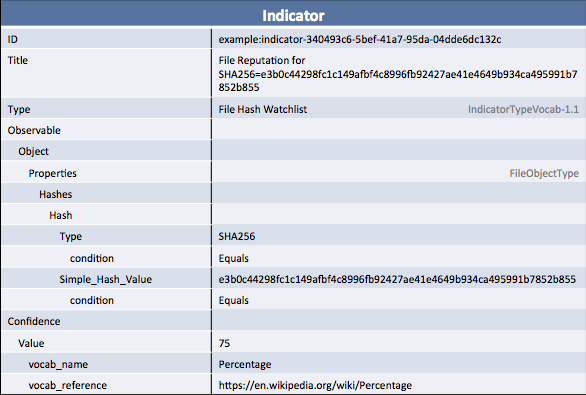
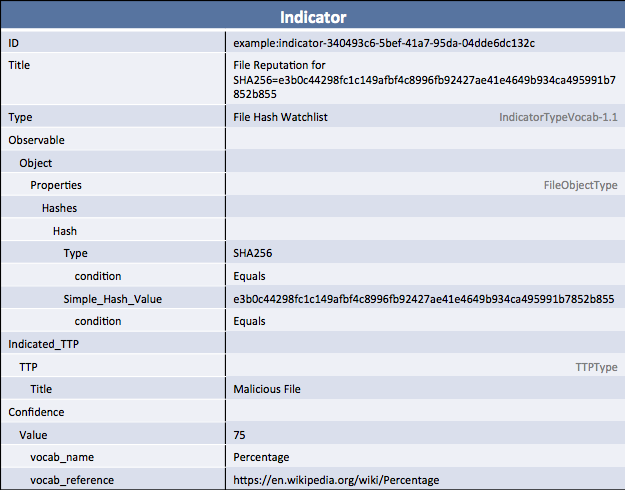
added indicated ttp

diff --git a/documentation/idioms/file-hash-reputation/file-hash-reputation_producer.py b/documentation/idioms/file-hash-reputation/file-hash-reputation_producer.py
@@ -26,6 +26,8 @@ def main():
     file_object.hashes[0].type_.condition = "Equals"
     indicator.add_observable(file_object)
 
+    indicator.add_indicated_ttp(TTP(title="Malicious file"))
+
     indicator.confidence = Confidence(value=VocabString('75'))
     indicator.confidence.value.vocab_name = "Percentage"
     indicator.confidence.value.vocab_reference = "https://en.wikipedia.org/wiki/Percentage"

diff --git a/documentation/idioms/file-hash-reputation/file-hash-reputation_consumer.py b/documentation/idioms/file-hash-reputation/file-hash-reputation_consumer.py
@@ -15,6 +15,7 @@ def main():
   for indicator in stix_package.indicators:
     print "Hash: " + indicator.observable.object_.properties.hashes[0].simple_hash_value.value
     print "Reputation: " + indicator.confidence.value.value
+    print "TTP: " + indicator.indicated_ttps[0].item.title
 
 
 if __name__ == '__main__':

diff --git a/documentation/idioms/file-hash-reputation/index.md b/documentation/idioms/file-hash-reputation/index.md
@@ -22,17 +22,23 @@ Keep in mind that many reputation services are request/response: the consumer as
 
 ## Data model
 
+<img src="diagram.png" alt="File hash reputation" class="aside-text" />
+
 The basic data model is the same as for most indicators:
 
 - A top-level indicator to bring together:
   - A CybOX object to represent the data point
-  - If possible, an indicated TTP on the indicator to describe how the object is malicious
+  - An indicated TTP on the indicator to describe how the object is malicious
   - A confidence to indicate the reputation score (the likelihood that the object is malicious)
 
-{% include start_tabs.html tabs="Diagram|XML|Python Producer|Python Consumer" name="indicator" %}
-<img src="diagram.png" alt="File hash reputation" />
-{% include tab_separator.html %}{% highlight xml %}
-<stix:Indicator id="example:indicator-340493c6-5bef-41a7-95da-04dde6dc132c" timestamp="2015-07-20T18:30:25.438755+00:00" xsi:type='indicator:IndicatorType'>
+<div style="clear: both; width:100%"></div>
+
+### Indicator Framework
+
+The `Indicator` forms the framework for the reputation result. All of the other data will be added under that.
+
+{% include start_tabs.html tabs="XML|Python Producer|Python Consumer" name="indicator" %}{% highlight xml %}
+<stix:Indicator id="example:indicator-14975dea-86cd-4211-a5f8-9c2e4daab69a" timestamp="2015-07-20T19:52:13.853585+00:00" xsi:type='indicator:IndicatorType'>
     <indicator:Title>File Reputation for SHA256=e3b0c44298fc1c149afbf4c8996fb92427ae41e4649b934ca495991b7852b855</indicator:Title>
     <indicator:Type xsi:type="stixVocabs:IndicatorTypeVocab-1.1">File Hash Watchlist</indicator:Type>
 </stix:Indicator>
@@ -52,12 +58,12 @@ In particular, because this is an indicator keep in mind that all of the fields 
 In this example, the SHA256 hash for the file is given along with the notation that the match should (of course, because it's a hash) be an equality match:
 
 {% include start_tabs.html tabs="XML|Python Producer|Python Consumer" name="observable" %}{% highlight xml %}
-<indicator:Observable id="example:Observable-4101d261-e4d5-4d56-b293-4354b9826a13">
-    <cybox:Object id="example:File-eaec587e-3b47-41fd-aad6-ed71fa85526b">
+<indicator:Observable id="example:Observable-7b97c8a2-2d0b-4af7-bcf0-cad28f2fea5a">
+    <cybox:Object id="example:File-b04bfc7c-04ae-4dfe-ba8e-a297f0717552">
         <cybox:Properties xsi:type="FileObj:FileObjectType">
             <FileObj:Hashes>
                 <cyboxCommon:Hash>
-                    <cyboxCommon:Type xsi:type="cyboxVocabs:HashNameVocab-1.0" condition="Equals">SHA256</cyboxCommon:Type>
+                    <cyboxCommon:Type condition="Equals" xsi:type="cyboxVocabs:HashNameVocab-1.0">SHA256</cyboxCommon:Type>
                     <cyboxCommon:Simple_Hash_Value condition="Equals">e3b0c44298fc1c149afbf4c8996fb92427ae41e4649b934ca495991b7852b855</cyboxCommon:Simple_Hash_Value>
                 </cyboxCommon:Hash>
             </FileObj:Hashes>
@@ -77,9 +83,19 @@ print "Hash: " + indicator.observable.object_.properties.hashes[0].simple_hash_v
 
 ### Indicated TTP
 
-To make indicators more useful it's a good idea to include an `Indicated_TTP` on the indicator. This is a relationship that points to the [TTP](/data-model/{{site.current_version}}/ttp/TTPType) construct to describe what about the object is bad: maybe it's a piece of malware, maybe it's an IP used for C2, maybe it's an e-mail address used for spear phishing. In many cases, reputation services don't include this data at all and can completely omit it while in other cases they may use a basic TTP with a human-readable title and nothing else.
+To make indicators more useful it's strongly suggested that an `Indicated_TTP` be included on the indicator. This is a relationship that points to the [TTP](/data-model/{{site.current_version}}/ttp/TTPType) construct to describe what about the object is bad: maybe it's a piece of malware, maybe it's an IP used for C2, maybe it's an e-mail address used for spear phishing. In rare cases it might be impossible for a producer to create this information and, in those cases, it may be omitted.
 
-In this example we'll skip the indicated TTP, but you can look at the idiom for [C2 IP address](/documentation/idioms/c2-indicator/) to see what it looks like.
+{% include start_tabs.html tabs="XML|Python Producer|Python Consumer" name="observable" %}{% highlight xml %}
+<indicator:Indicated_TTP>
+    <stixCommon:TTP id="example:ttp-23e715a9-24c8-4b21-ba5b-f564d2edc660" timestamp="2015-07-20T19:52:13.854415+00:00" xsi:type='ttp:TTPType'>
+        <ttp:Title>Malicious file</ttp:Title>
+    </stixCommon:TTP>
+</indicator:Indicated_TTP>
+{% endhighlight %}{% include tab_separator.html %}{% highlight python %}
+indicator.add_indicated_ttp(TTP(title="Malicious file"))
+{% endhighlight %}{% include tab_separator.html %}{% highlight python %}
+print "TTP: " + indicator.indicated_ttps[0].item.title
+{% endhighlight %}{% include end_tabs.html %}
 
 ### Reputation score
 
@@ -104,22 +120,27 @@ print "Reputation: " + indicator.confidence.value.value
 Here's the whole thing in one big chunk:
 
 {% include start_tabs.html tabs="XML|Python Producer|Python Consumer" name="everything" %}{% highlight xml %}
-<stix:Indicator id="example:indicator-340493c6-5bef-41a7-95da-04dde6dc132c" timestamp="2015-07-20T18:30:25.438755+00:00" xsi:type='indicator:IndicatorType'>
+<stix:Indicator id="example:indicator-14975dea-86cd-4211-a5f8-9c2e4daab69a" timestamp="2015-07-20T19:52:13.853585+00:00" xsi:type='indicator:IndicatorType'>
     <indicator:Title>File Reputation for SHA256=e3b0c44298fc1c149afbf4c8996fb92427ae41e4649b934ca495991b7852b855</indicator:Title>
     <indicator:Type xsi:type="stixVocabs:IndicatorTypeVocab-1.1">File Hash Watchlist</indicator:Type>
-    <indicator:Observable id="example:Observable-4101d261-e4d5-4d56-b293-4354b9826a13">
-        <cybox:Object id="example:File-eaec587e-3b47-41fd-aad6-ed71fa85526b">
+    <indicator:Observable id="example:Observable-7b97c8a2-2d0b-4af7-bcf0-cad28f2fea5a">
+        <cybox:Object id="example:File-b04bfc7c-04ae-4dfe-ba8e-a297f0717552">
             <cybox:Properties xsi:type="FileObj:FileObjectType">
                 <FileObj:Hashes>
                     <cyboxCommon:Hash>
-                        <cyboxCommon:Type xsi:type="cyboxVocabs:HashNameVocab-1.0">SHA256</cyboxCommon:Type>
+                        <cyboxCommon:Type condition="Equals" xsi:type="cyboxVocabs:HashNameVocab-1.0">SHA256</cyboxCommon:Type>
                         <cyboxCommon:Simple_Hash_Value condition="Equals">e3b0c44298fc1c149afbf4c8996fb92427ae41e4649b934ca495991b7852b855</cyboxCommon:Simple_Hash_Value>
                     </cyboxCommon:Hash>
                 </FileObj:Hashes>
             </cybox:Properties>
         </cybox:Object>
     </indicator:Observable>
-    <indicator:Confidence timestamp="2015-07-20T18:30:25.439498+00:00">
+    <indicator:Indicated_TTP>
+        <stixCommon:TTP id="example:ttp-23e715a9-24c8-4b21-ba5b-f564d2edc660" timestamp="2015-07-20T19:52:13.854415+00:00" xsi:type='ttp:TTPType'>
+            <ttp:Title>Malicious file</ttp:Title>
+        </stixCommon:TTP>
+    </indicator:Indicated_TTP>
+    <indicator:Confidence timestamp="2015-07-20T19:52:13.854506+00:00">
         <stixCommon:Value vocab_reference="https://en.wikipedia.org/wiki/Percentage" vocab_name="Percentage">75</stixCommon:Value>
     </indicator:Confidence>
 </stix:Indicator>
